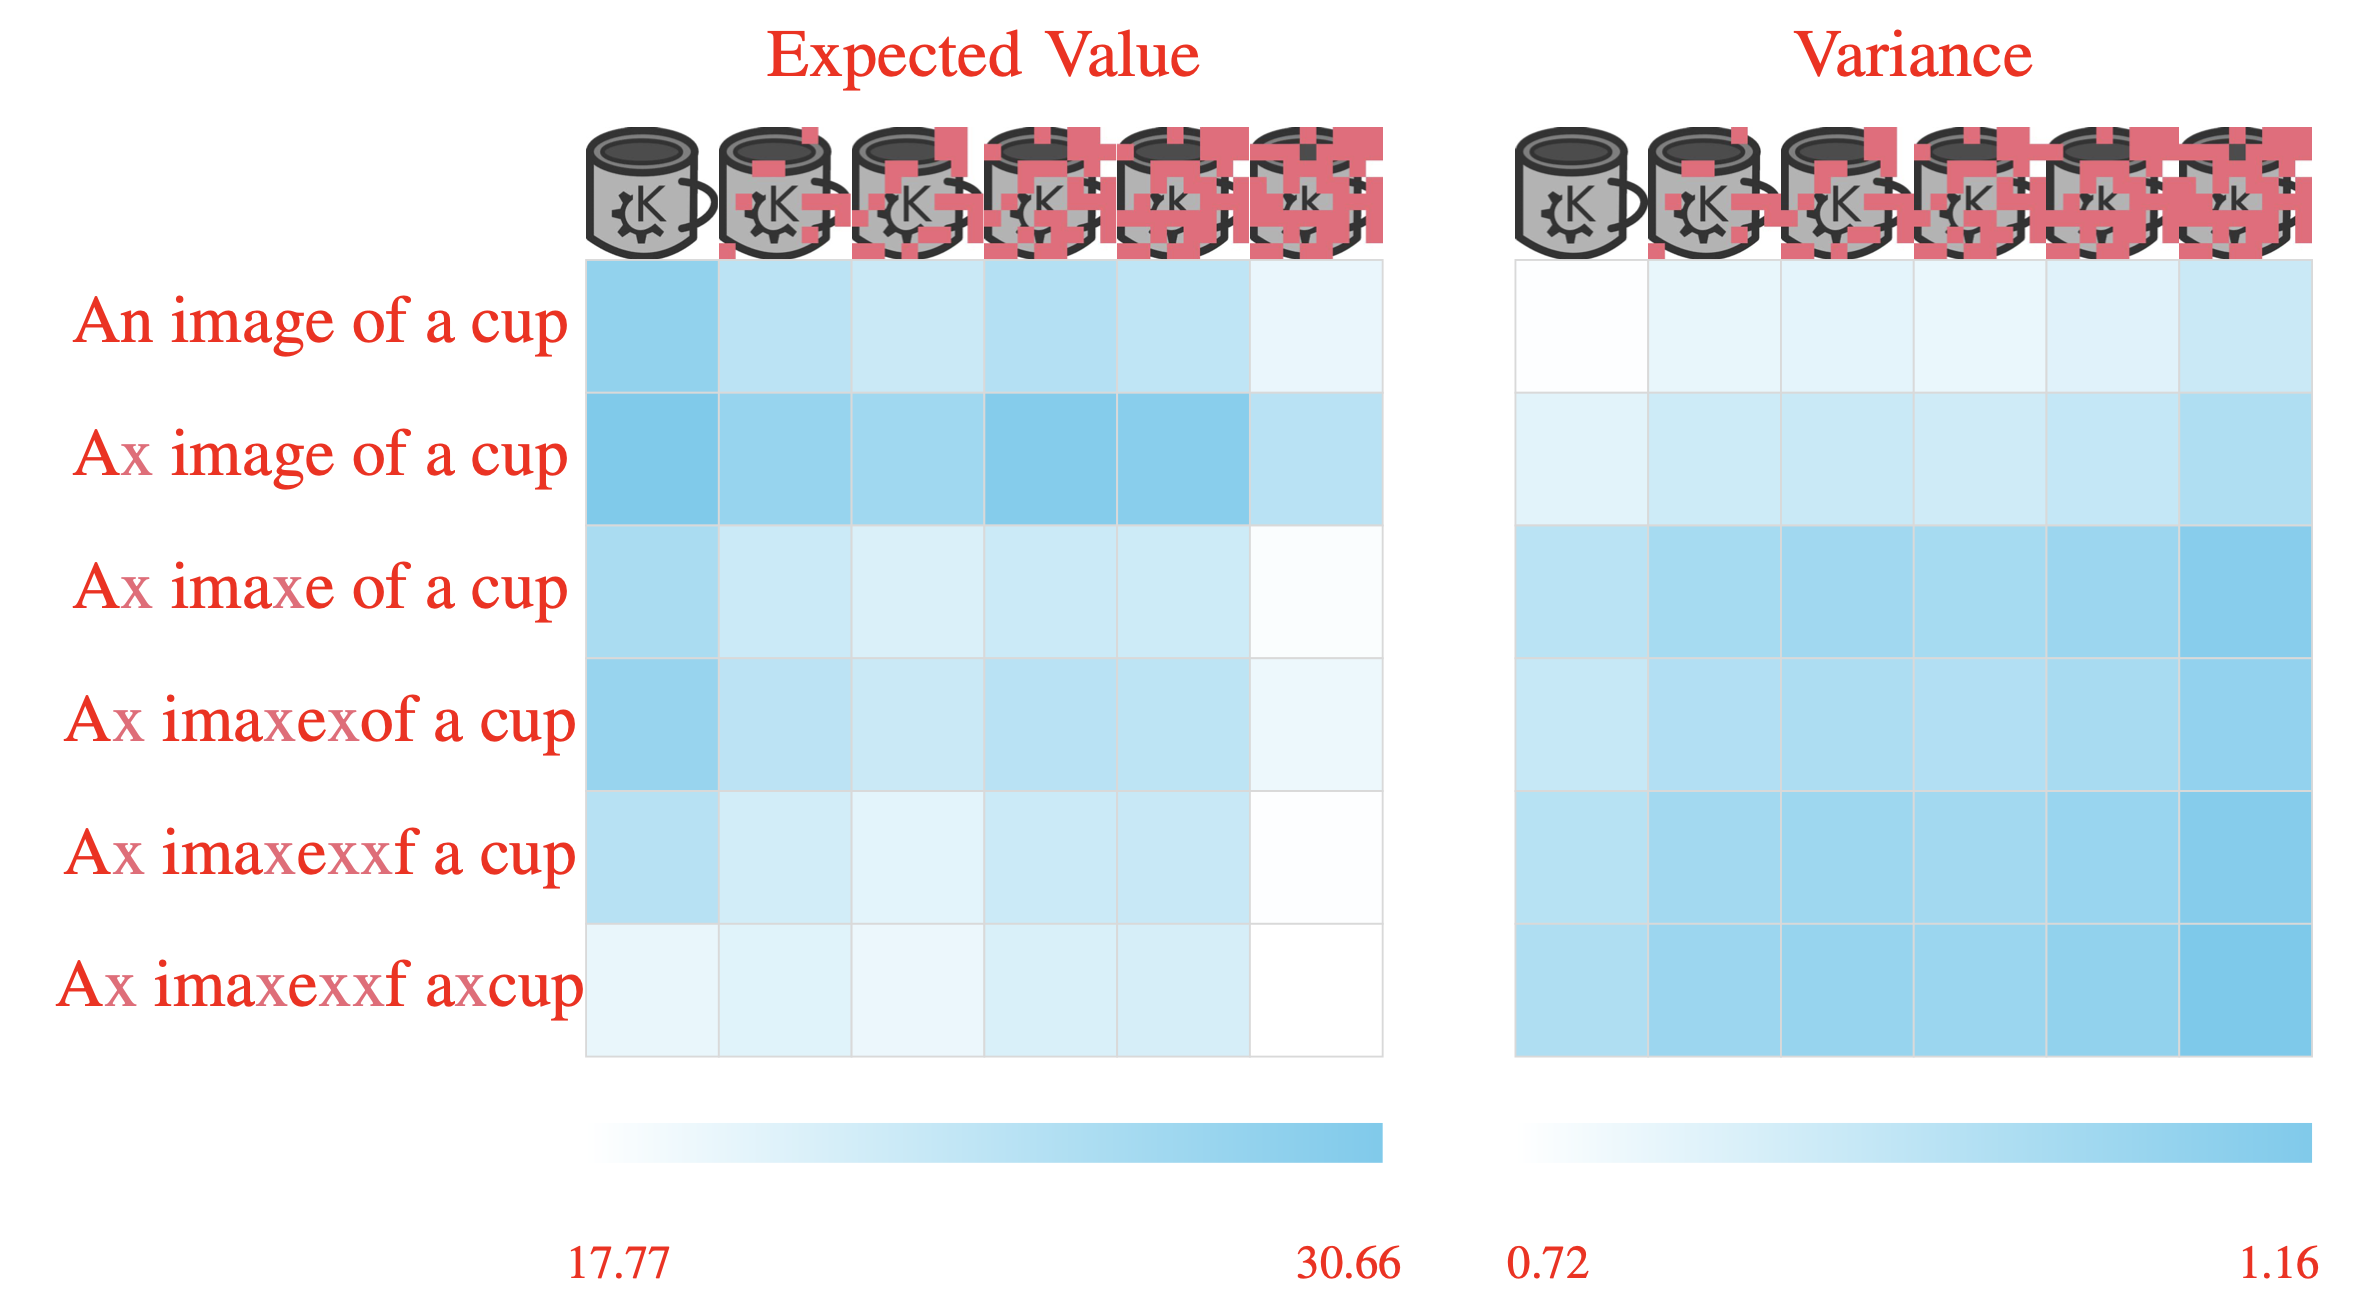
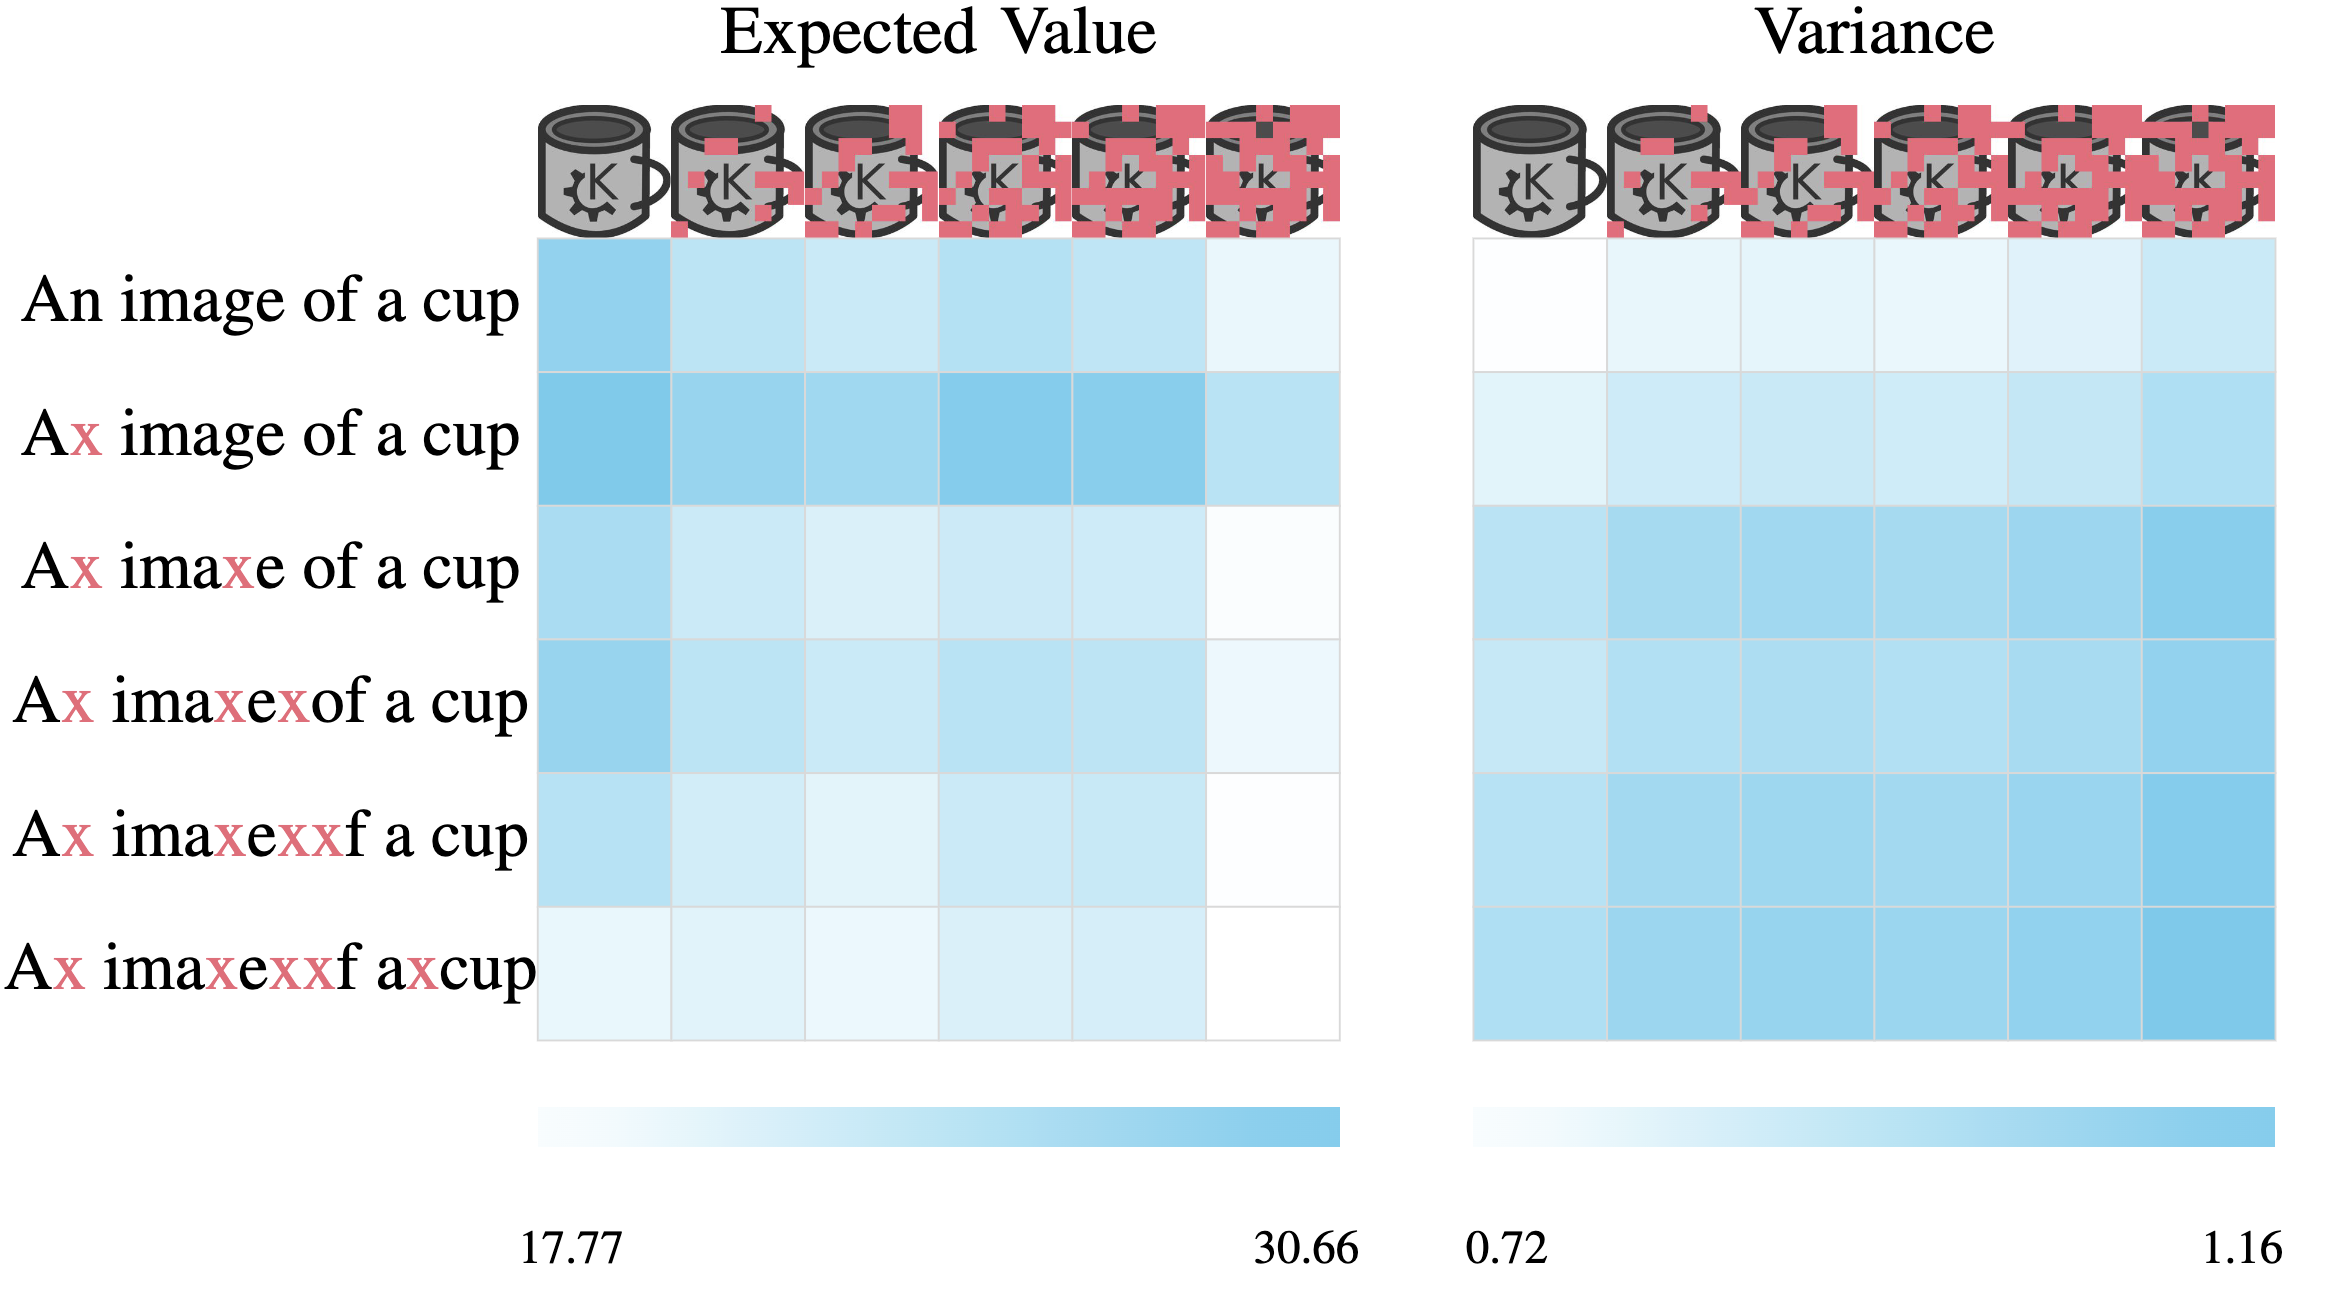
integrate Martins feedback

diff --git a/index.html b/index.html
@@ -171,71 +171,6 @@
   </div>
 </section>
 
-<section class="section">
-  <div class="container is-max-desktop">
-    <div class="columns is-centered">
-      <div class="column is-four-fifths">
-        <h2 class="title is-3 has-text-centered">Overview</h2>
-
-        <div class="has-text-centered">
-          <img src="asset/pipeline.png" loading="lazy" style="width: 100%; height: auto; margin: 0 auto;" />
-        </div>
-
-        <p class="content has-text-justified" style="margin-top: 10px;">
-          <b>Illustration of uncertainty propagation in VLMs:</b> We estimate uncertainties
-          over the last linear layers of both encoders using a Laplace approximation, which
-          induces distributions over the feature projections. We then approximate the distribution
-          over cosine similarities by estimating the expected value and variance accordingly. The
-          cosine similarity distribution is then propagated further to the output.
-        </p>
-      </div>
-    </div>
-  </div>
-</section>
-
-<!-- =======================
-     DESIDERATA (Intro framing)
-======================= -->
-<section class="section" id="desiderata" style="padding-top: 0;">
-  <div class="container is-max-desktop">
-    <div class="columns is-centered has-text-centered">
-      <div class="column is-four-fifths">
-        <h2 class="title is-3">Desiderata</h2>
-        <div class="content has-text-justified">
-          <p>
-            We aim for uncertainty estimation in pre-trained VLMs that is:
-          </p>
-          <div class="table-container" style="margin-top: 0.75rem;">
-            <table class="table is-fullwidth is-striped">
-              <tbody>
-                <tr>
-                  <td style="width: 34%;"><b>Model-agnostic</b></td>
-                  <td>Applicable to different VLM architectures.</td>
-                </tr>
-                <tr>
-                  <td><b>Post-hoc</b></td>
-                  <td>No training from scratch.</td>
-                </tr>
-                <tr>
-                  <td><b>Efficient</b></td>
-                  <td>Low inference overhead.</td>
-                </tr>
-                <tr>
-                  <td><b>Effective</b></td>
-                  <td>Captures relevant uncertainty sources.</td>
-                </tr>
-                <tr>
-                  <td><b>Training-free</b></td>
-                  <td>No adapters or additional learned components.</td>
-                </tr>
-              </tbody>
-            </table>
-          </div>
-        </div>
-      </div>
-    </div>
-  </div>
-</section>
 
 <!-- =======================
      CONTRIBUTIONS (as in paper)
@@ -296,6 +231,23 @@
       </div>
     </div>
 
+    <div class="columns is-centered">
+      <div class="column is-four-fifths">
+
+        <div class="has-text-centered">
+          <img src="asset/pipeline.png" loading="lazy" style="width: 100%; height: auto; margin: 0 auto;" />
+        </div>
+
+        <p class="content has-text-justified" style="margin-top: 10px;">
+          <b>Illustration of uncertainty propagation in VLMs:</b> We estimate uncertainties
+          over the last linear layers of both encoders using a Laplace approximation, which
+          induces distributions over the feature projections. We then approximate the distribution
+          over cosine similarities by estimating the expected value and variance accordingly. The
+          cosine similarity distribution is then propagated further to the output.
+        </p>
+      </div>
+    </div>
+
     <div class="columns is-centered" style="margin-top: -10px;">
       <div class="column is-four-fifths">
         <h3 class="title is-4">ProbCosine: Analytic Cosine Similarity Uncertainty</h3>
@@ -315,26 +267,6 @@
         <p class="content has-text-justified" style="margin-top: 10px;">
           <b>ProbCosine approximation.</b> Analytic moment-matching closely tracks the cosine similarity distribution across uncertainty levels, providing an efficient alternative to sampling.
         </p>
-      </div>
-    </div>
-  </div>
-</section>
-
-<!-- =======================
-     APPLICATION (Sec. 3.3 framing)
-======================= -->
-<section class="section" id="active-learning" style="padding-top: 0;">
-  <div class="container is-max-desktop">
-    <div class="columns is-centered has-text-centered">
-      <div class="column is-four-fifths">
-        <h2 class="title is-3">Application: Probabilistic Active Few-shot Learning</h2>
-        <div class="content has-text-justified">
-          <p>
-            We apply BayesVLM to <b>probabilistic zero-shot classification</b> and to <b>active few-shot adaptation</b>.
-            In active learning, BayesVLM’s predictive uncertainties drive support-set selection via Bayesian acquisition functions (e.g., <b>BALD</b> and <b>EPIG</b>),
-            combined with target-region selection in feature space.
-          </p>
-        </div>
       </div>
     </div>
   </div>
@@ -371,16 +303,13 @@
 
     <div class="columns is-centered">
       <div class="column is-four-fifths has-text-centered">
-        <a href="asset/table1_zeroshot_results.png" target="_blank" rel="noopener noreferrer">
-          <img src="asset/table1_zeroshot_results.png" loading="lazy"
-               style="width: 100%; height: auto; margin: 0 auto;" />
-        </a>
+        <img src="asset/table1_zeroshot_results.png" loading="lazy"
+              style="width: 100%; height: auto; margin: 0 auto;" />
         <p class="content has-text-justified" style="margin-top: 10px;">
           <b>Zero-shot uncertainty quantification (Table&nbsp;1).</b>
           BayesVLM achieves comparable accuracy to deterministic CLIP while substantially improving
           calibration (ECE ↓) and negative log predictive density (NLPD ↓).
         </p>
-        <p class="is-size-7" style="margin-top: -6px;">Click the table to open the full-resolution image.</p>
       </div>
     </div>
 
@@ -474,9 +403,8 @@
     <pre><code class="language-bibtex">@inproceedings{baumann2026bayesvlm,
   title     = {Post-hoc Probabilistic Vision-Language Models},
   author    = {Baumann, Anton and Li, Rui and Klasson, Marcus and Mentu, Santeri and Karthik, Shyamgopal and Akata, Zeynep and Solin, Arno and Trapp, Martin},
-  booktitle = {International Conference on Learning Representations (ICLR)},
+  booktitle = {International Conference on Learning Representations {(ICLR)}},
   year      = {2026},
-  note      = {arXiv:2412.06014}
 }</code></pre>
   </div>
 </section>
